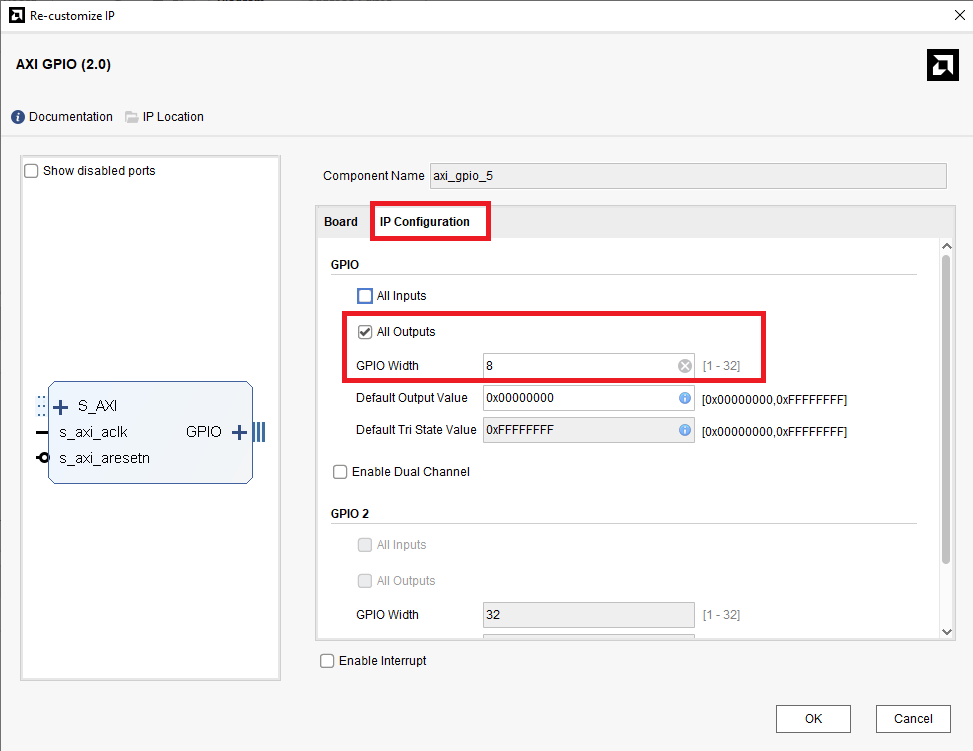
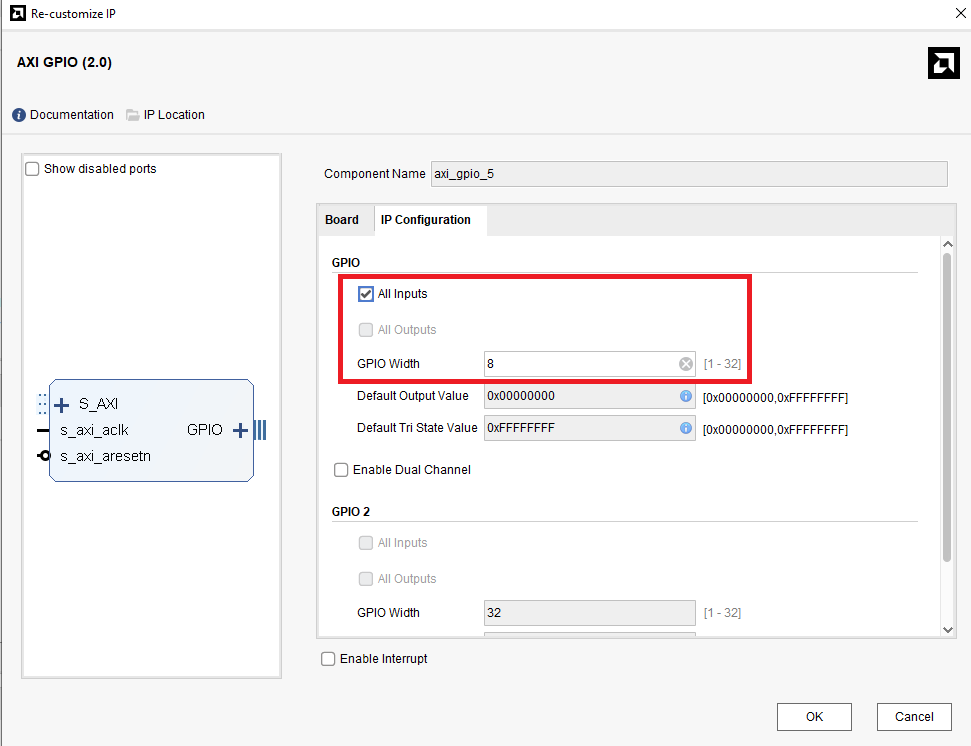
Add Lab2 AXI GPIO project files and update README with detailed instructions and images

diff --git a/Hardware-Software-Codesign/Part2-AXI-GPIO/src/main.c b/Hardware-Software-Codesign/Part2-AXI-GPIO/src/main.c
@@ -1,0 +1,111 @@
+#include "xparameters.h"
+#include "xgpio.h"
+#include "xil_printf.h"
+#include "xil_types.h"
+#include "xuartps.h"
+#include <stdlib.h>
+
+#define SW          XPAR_AXI_GPIO_0_BASEADDR
+#define LED         XPAR_AXI_GPIO_1_BASEADDR
+#define NUM1        XPAR_AXI_GPIO_2_BASEADDR
+#define NUM2        XPAR_AXI_GPIO_3_BASEADDR
+#define ADD_OR_SUB  XPAR_AXI_GPIO_4_BASEADDR
+#define ANS         XPAR_AXI_GPIO_5_BASEADDR
+
+XGpio LED_Gpio, SW_Gpio, NUM1_Gpio, NUM2_Gpio, ADD_OR_SUB_Gpio, ANS_Gpio;
+
+int read_number() {
+    char buffer[4] = {0};
+    int idx = 0;
+    char c;
+    while (1) {
+        c = inbyte();
+        xil_printf("%c", c);
+        if (c == '\r') break;
+        if (idx < 3 && c >= '0' && c <= '9') {
+            buffer[idx++] = c;
+        }
+    }
+    xil_printf("\r\n");
+    buffer[idx] = '\0';
+    return atoi(buffer);
+}
+
+
+int main() {
+	int LED_Status, SW_Status, NUM1_Status, NUM2_Status, ADD_OR_SUB_Status, ANS_Status;
+    u8 sw_data = 0x00;
+    u8 num1, num2, result;
+    char op;
+
+	/* Initialize the GPIO driver */
+	LED_Status = XGpio_Initialize(&LED_Gpio, LED);
+	SW_Status = XGpio_Initialize(&SW_Gpio, SW);
+    NUM1_Status = XGpio_Initialize(&NUM1_Gpio, NUM1);
+    NUM2_Status = XGpio_Initialize(&NUM2_Gpio, NUM2);
+    ADD_OR_SUB_Status = XGpio_Initialize(&ADD_OR_SUB_Gpio, ADD_OR_SUB);
+    ANS_Status = XGpio_Initialize(&ANS_Gpio, ANS);
+
+    if (LED_Status != XST_SUCCESS || SW_Status != XST_SUCCESS || 
+        NUM1_Status != XST_SUCCESS || NUM2_Status != XST_SUCCESS ||
+        ADD_OR_SUB_Status != XST_SUCCESS || ANS_Status != XST_SUCCESS) {
+        
+        xil_printf("Gpio Initialization Failed\r\n");
+        return XST_FAILURE;
+    }
+
+    xil_printf("Gpio Initialization Success\r\n");
+
+	// ========================
+    // Set GPIO direction
+    // ========================
+    // 0 = output, 1 = input
+
+    XGpio_SetDataDirection(&LED_Gpio,        1, 0x00000000);  
+    XGpio_SetDataDirection(&SW_Gpio,         1, 0xFFFFFFFF); 
+    XGpio_SetDataDirection(&NUM1_Gpio,       1, 0x00000000); 
+    XGpio_SetDataDirection(&NUM2_Gpio,       1, 0x00000000);  
+    XGpio_SetDataDirection(&ADD_OR_SUB_Gpio, 1, 0x00000000);  
+    XGpio_SetDataDirection(&ANS_Gpio,        1, 0xFFFFFFFF);
+
+	while (1) {
+        xil_printf("Enter '+' for add, '-' for sub, or 'q' to quit:\r\n");
+        op = inbyte();
+        xil_printf("%c\r\n", op);
+
+        if (op == 'q') {
+            xil_printf("Program terminated by user.\r\n");
+            break;
+        }
+
+        if (op == '+') {
+            XGpio_DiscreteWrite(&ADD_OR_SUB_Gpio, 1, 1);
+        }else if(op == '-') {
+            XGpio_DiscreteWrite(&ADD_OR_SUB_Gpio, 1, 0);
+        } else {
+            xil_printf("Invalid operator. Try again.\r\n");
+            continue;
+        }
+
+        xil_printf("Enter first number (0~255):\r\n");
+        num1 = read_number();
+        XGpio_DiscreteWrite(&NUM1_Gpio, 1, num1);
+
+
+        xil_printf("Enter second number (0~255):\r\n");
+        num2 = read_number();
+        XGpio_DiscreteWrite(&NUM2_Gpio, 1, num2);
+
+        result = XGpio_DiscreteRead(&ANS_Gpio, 1);
+        xil_printf("Result = %d (0x%02X)\r\n", result, result & 0xFF);
+
+        xil_printf("-------Switch and LED-------\r\n");
+
+        sw_data = XGpio_DiscreteRead(&SW_Gpio, 1);
+        xil_printf("Switch value: 0x%02X\r\n", sw_data);
+        XGpio_DiscreteWrite(&LED_Gpio, 1, sw_data);
+
+        xil_printf("----------------------------\r\n");
+	}
+	return XST_SUCCESS;
+}

diff --git a/Hardware-Software-Codesign/Part2-AXI-GPIO/README.md b/Hardware-Software-Codesign/Part2-AXI-GPIO/README.md
@@ -15,23 +15,56 @@
 
     ![ZYNQ7_PS](./png/ZYNQ7_PS.png)
 
-4.  再加入`六個 GPIO`、`Adder/Subtracter`、`Constant`  
+4.  對 `ZYNQ7 Processing System` 點兩下進入設定，點選左側 `Peripheral I/O pins`，將全部都關掉後，打開`UART0`就好  
+
+    ![Zynq_Setting](./png/Zynq_Setting.png)
+
+5.  再加入`六個 GPIO`、`Adder/Subtracter`、`Constant`  
 
     ![Block_Design_ini](./png/Block_Design_ini.png)
 
-5.  接下來要依序對各個 GPIO 做不同的設定，需要對清楚名稱，若沒有照順序則需要修改 C code  
-    -   **axi_gpio_0**:  ![axi_gpio_0](./png/GPIO_0.png)  
-    -   **axi_gpio_1**:  ![axi_gpio_1](./png/GPIO_1.png)  
-    -   **axi_gpio_2**:  ![axi_gpio_2](./png/GPIO_2.png)  
-    -   **axi_gpio_3**:  ![axi_gpio_3](./png/GPIO_3.png)  
-    -   **axi_gpio_4**:  ![axi_gpio_4](./png/GPIO_4.png)  
-    -   **axi_gpio_5**:  ![axi_gpio_5](./png/GPIO_5.png)  
+6.  點選上方綠色橫幅 `Run Connection Automation`，並全部打勾按 `OK`  
 
-6.  調整 `Constant` 設定  
+    ![Run_Auto](./png/Run_Auto.png)  
+
+    自動連線完成後，點選 `Regenerate Layout` ，讓 Vivado 幫你自動排版  
+    
+    ![Auto_Done](./png/Auto_Done.png)  
+
+7.  移除所有 `GPIO` 的 Port
+
+    ![Remove_GPIO_Port](./png/Remove_GPIO_Port.png)
+    
+
+8.  接下來要依序對各個 GPIO 做不同的設定，需要對清楚名稱，若沒有照順序則需要修改 C code  
+
+    -   **axi_gpio_0**:  
+        ![axi_gpio_0](./png/GPIO_0.png)  
+    
+    -   **axi_gpio_1**:  
+        ![axi_gpio_1](./png/GPIO_1.png)  
+
+    -   **axi_gpio_2**:  
+        ![axi_gpio_2_Custom](./png/GPIO_2_Custom.png)  
+        ![axi_gpio_2](./png/GPIO_2.png)  
+        
+    -   **axi_gpio_3**:  
+        ![axi_gpio_3_Custom](./png/GPIO_3_Custom.png)  
+        ![axi_gpio_3](./png/GPIO_3.png)    
+    
+    -   **axi_gpio_4**:  
+        ![axi_gpio_4_Custom](./png/GPIO_4_Custom.png)  
+        ![axi_gpio_4](./png/GPIO_4.png)  
+
+    -   **axi_gpio_5**:  
+        ![axi_gpio_5_Custom](./png/GPIO_5_Custom.png)  
+        ![axi_gpio_5](./png/GPIO_5.png)  
+
+9.  調整 `Constant` 設定  
 
     ![Constant](./png/Constant.png)
 
-7.  調整 `Adder/Subtracter` 設定
+10.  調整 `Adder/Subtracter` 設定
 
     ![Adder/Subtracter](./png/Adder_Subtracter.png)
 
@@ -49,4 +82,71 @@
     >📌 What's MAC operation?  
     >MAC（Multiply-Accumulate）指的是「乘加運算」，例如 `a × b + c`，是數位濾波器、CNN 神經網路等運算核心，DSP Slice 專門針對此類運算設計。
 
-8.  
+11. 將 `axi_gpio_2`、`axi_gpio_3`、`axi_gpio_4`、`axi_gpio_5`、`Adder/Subtracter`、`Constant`，依照下方圖的方式做連接  
+
+    ![GPIO_Connection_Done](./png/GPIO_Connection_Done.png)  
+
+12. 連接完後點選上方 `Run Connection Automation`，並全部打勾   
+
+    ![Run_Auto_GPIO_0_1](./png/Run_Auto_GPIO_0_1.png)  
+
+13. 最後點選 `Validation` 和 `Regenerate Layout`，看看有沒有錯誤  
+
+    ![Validation](./png/Validation.png)
+
+14. 完整電路  
+
+    ![Final](./png/Final.png)  
+
+15. Create HDL Wrapper  
+
+16. Generate Bitstream  
+
+17. `File -> Export -> Export Hardware`
+
+    ![Include_Bitstream](./png/Include_Bitstream.png)
+
+18. 這樣就完成 Vivado 端的電路設計部分，再來要去 Vitis 做軟體設計
+
+## Part 2.2 Vitis Project
+
+1.  照 `Part1` 的方式創立一個 Vitis Project  
+
+2.  使用 Part2.1 產生的 `.xsa` 檔案，創建 `Platform Component`  
+
+3.  一樣使用 `Example Design` 裡面的 `Hello_World` 作為初始的 `Application Project`
+
+    ![Application_Project](./png/Application_Project.png)  
+
+4.  將 `Application Project` 內的 `main.c` 替換成該次Lab裡面的`src/main.c`  
+
+    ![Main_Change](./png/Main_Change.png)  
+
+5.  先 `build platform`
+
+6.  再 `build application`
+
+7.  連接上 PYNQ 板
+
+8.  打開 `MobaXterm` Serial 方式連接上 PYNQ
+
+9.  點選`Run`
+
+    ![Run](./png/Run.png)
+
+10. 此時你就可以輸入符號去做加減法了，並且每次輸入完會去讀取板子上的 Switch，並將 Switch 的數值透過二進制方式顯示在 LED 上面去
+
+    ![Run_On_Pynq](./png/Run_On_Pynq.png)  
+
+
+## Part 2.3 Run & Result
+
+當執行程式後，使用者可以透過 UART 輸入操作指令與數字，進行加法或減法的運算，同時觀察輸出結果與 LED 顯示：
+
+-   透過 UART 輸入 '+' 或 '-'：決定此次要進行加法或減法。
+
+-   輸入第一與第二個操作數（0~255）：分別寫入至 AXI GPIO，作為電路的輸入資料。
+
+-   由 Adder/Subtracter 模組計算結果：將結果透過 GPIO 回傳到電腦顯示。
+
+-   同時可使用 Switch 切換不同狀態，並透過 LED 實時顯示對應的二進位值。

diff --git a/Hardware-Software-Codesign/Part1-Zynq-Processor/README.md b/Hardware-Software-Codesign/Part1-Zynq-Processor/README.md
@@ -190,3 +190,8 @@ Zynq 不僅是一顆 FPGA，它還內建了完整的處理系統，包括：
 4.  即可在 `MobaXterm` 看到 "Hello World!" 的結果  
 
     ![Hello_World](./png/Hello_World.png)
+
+
+## Lab1 UART
+
+[Lab1-UART](../Lab/Lab1-UART/)
